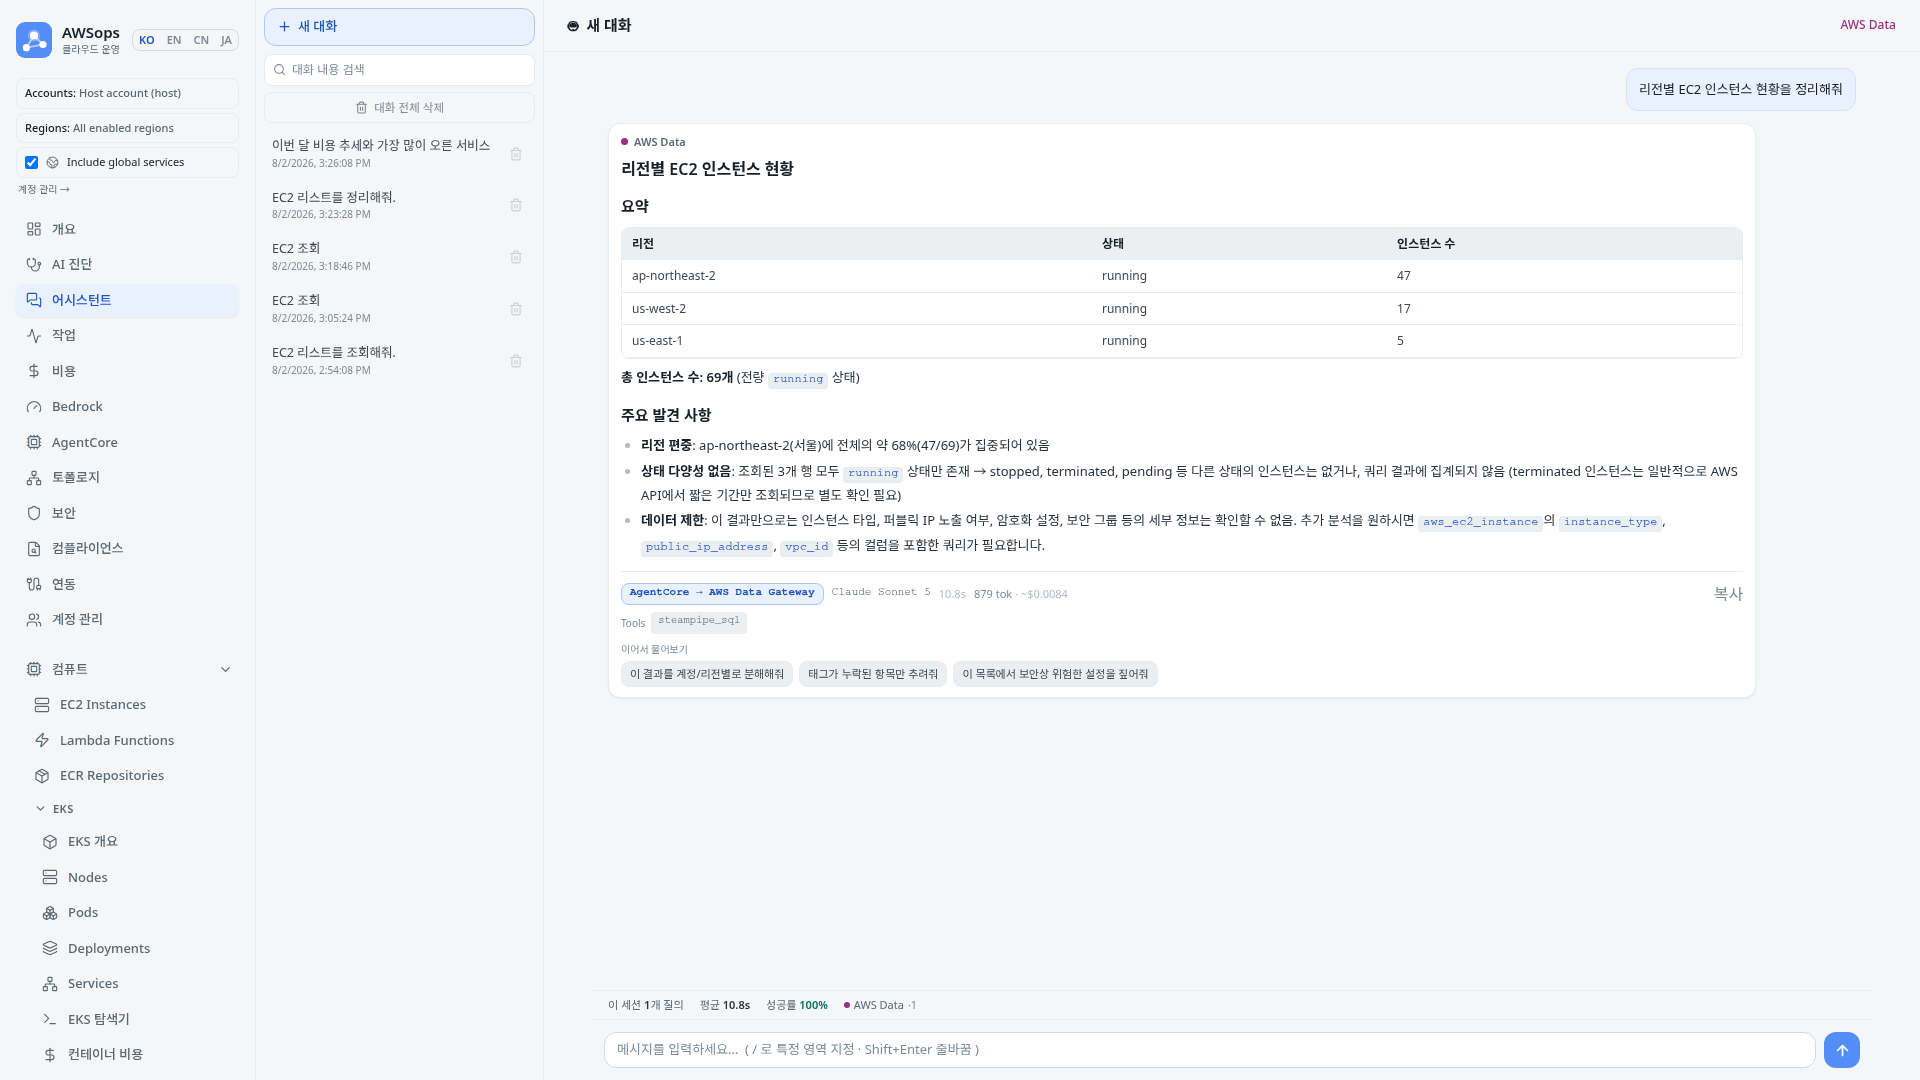
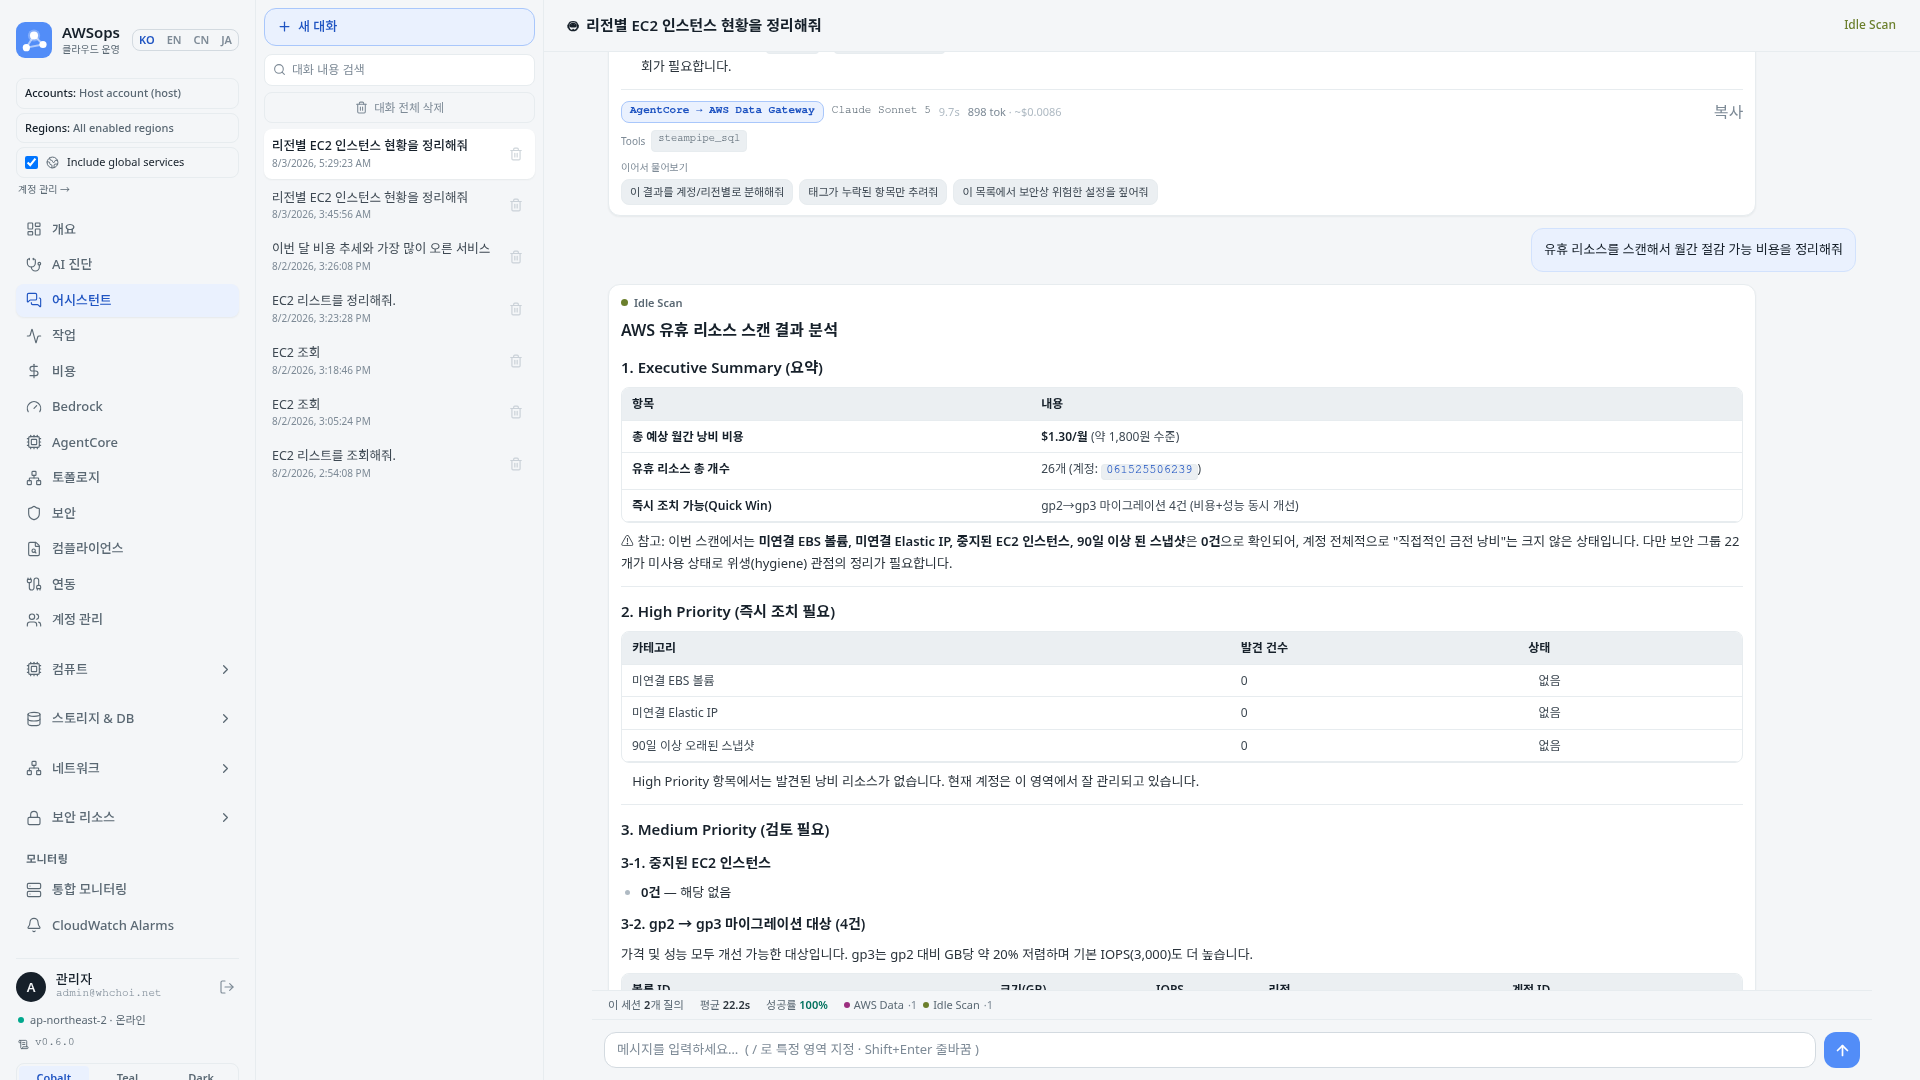
docs(brochure): expand gallery to 10 rich v2 captures
Retake four shots with interaction-rich states (two-turn assistant
thread with live SQL + idle-scan answers, topology focused on the
request-flow chain with a resource panel, EKS node drilldown open,
cost with service breakdown + composition donut) and add four new
v2-only screens: NFM network flow with E2E hop path, DNS query log
analysis, VPC endpoint idle-billing analysis, and EC2 inventory with
facet filters + detail panel.

Claude-Session: https://claude.ai/code/session_014wG9uAn28p3RB8tGxvvNLq

diff --git a/web/static/brochure/index.html b/web/static/brochure/index.html
@@ -469,7 +469,7 @@
     <div class="sec-head reveal">
       <div class="kicker">화면 미리보기</div>
       <h2>실제 운영 화면, <em>그대로</em>.</h2>
-      <p>v2 운영 화면 그대로 — 라이트 테마 위에 라이브 차트와 토폴로지, AI 어시스턴트가 한 흐름으로 이어집니다.</p>
+      <p>v2 운영 화면 그대로 — 대시보드와 인벤토리부터 네트워크 인텔리전스, AI 어시스턴트까지, 라이브 데이터가 담긴 열 장면입니다.</p>
     </div>
     <div class="shots">
       <figure class="shot wide reveal">
@@ -477,24 +477,40 @@
         <figcaption><b>메인 대시보드</b><span>실시간 리소스 현황 · 41종 인벤토리</span></figcaption>
       </figure>
       <figure class="shot reveal">
-        <div class="ph"><img src="../screenshots/v2/assistant.png" loading="lazy" alt="AI 어시스턴트 화면 — 라이브 Steampipe SQL 답변과 AgentCore 게이트웨이 표시" /></div>
-        <figcaption><b>AI 어시스턴트</b><span>16 sections · 라이브 SQL</span></figcaption>
+        <div class="ph"><img src="../screenshots/v2/assistant.png" loading="lazy" alt="AI 어시스턴트 화면 — 라이브 Steampipe SQL 답변과 유휴 리소스 스캔 2턴 대화" /></div>
+        <figcaption><b>AI 어시스턴트</b><span>라이브 SQL · 자동수집</span></figcaption>
       </figure>
       <figure class="shot reveal">
-        <div class="ph"><img src="../screenshots/v2/topology.png" loading="lazy" alt="토폴로지 화면 — Route53 → CloudFront → LB → 타깃 요청 흐름 그래프" /></div>
-        <figcaption><b>네트워크 토폴로지</b><span>React Flow</span></figcaption>
+        <div class="ph"><img src="../screenshots/v2/ec2.png" loading="lazy" alt="EC2 인스턴스 인벤토리 — Region/Type/Pricing 패싯 필터와 상세 패널" /></div>
+        <figcaption><b>EC2 인벤토리</b><span>패싯 필터 · 상세 패널</span></figcaption>
       </figure>
       <figure class="shot reveal">
-        <div class="ph"><img src="../screenshots/v2/eks.png" loading="lazy" alt="EKS 스위트 화면 — 클러스터·노드·파드 드릴다운" /></div>
-        <figcaption><b>EKS 스위트</b><span>탐색기 · 컨테이너 비용</span></figcaption>
+        <div class="ph"><img src="../screenshots/v2/eks.png" loading="lazy" alt="EKS 스위트 화면 — 클러스터 현황과 노드 드릴다운 (CPU·Memory·Pods)" /></div>
+        <figcaption><b>EKS 스위트</b><span>노드 드릴다운 · Pods</span></figcaption>
+      </figure>
+      <figure class="shot reveal">
+        <div class="ph"><img src="../screenshots/v2/topology.png" loading="lazy" alt="토폴로지 화면 — CloudFront → ALB → Target Group → 타깃 요청 흐름과 리소스 상세" /></div>
+        <figcaption><b>네트워크 토폴로지</b><span>요청 흐름 · React Flow</span></figcaption>
+      </figure>
+      <figure class="shot reveal">
+        <div class="ph"><img src="../screenshots/v2/network-flow.png" loading="lazy" alt="Network Flow Monitor 화면 — AZ 간 전송량과 End-to-End 홉 경로" /></div>
+        <figcaption><b>네트워크 플로우</b><span>NFM · E2E 홉 경로</span></figcaption>
+      </figure>
+      <figure class="shot reveal">
+        <div class="ph"><img src="../screenshots/v2/dns-query.png" loading="lazy" alt="DNS 쿼리 로그 분석 — RCODE·쿼리 타입 분포와 Top 도메인" /></div>
+        <figcaption><b>DNS 쿼리 로그</b><span>Resolver · NXDOMAIN</span></figcaption>
+      </figure>
+      <figure class="shot reveal">
+        <div class="ph"><img src="../screenshots/v2/vpc-endpoints.png" loading="lazy" alt="VPC Endpoint 분석 — 미사용 Interface 엔드포인트와 월 추정 낭비 비용" /></div>
+        <figcaption><b>VPC 엔드포인트</b><span>유휴 과금 감지</span></figcaption>
       </figure>
       <figure class="shot reveal">
         <div class="ph"><img src="../screenshots/v2/security.png" loading="lazy" alt="보안 인사이트 화면 — Public S3 · Open SG · 미암호화 EBS · IAM MFA findings" /></div>
         <figcaption><b>보안 인사이트</b><span>read-only findings</span></figcaption>
       </figure>
       <figure class="shot reveal">
-        <div class="ph"><img src="../screenshots/v2/cost.png" loading="lazy" alt="비용 분석 화면 — 비용 추이와 서비스별 드릴다운" /></div>
-        <figcaption><b>비용 &amp; FinOps</b><span>Cost Explorer · 예측</span></figcaption>
+        <div class="ph"><img src="../screenshots/v2/cost.png" loading="lazy" alt="비용 분석 화면 — 일별 추이 · 서비스별 비용 · 비용 구성" /></div>
+        <figcaption><b>비용 &amp; FinOps</b><span>Cost Explorer · 서비스 분해</span></figcaption>
       </figure>
     </div>
   </div>
